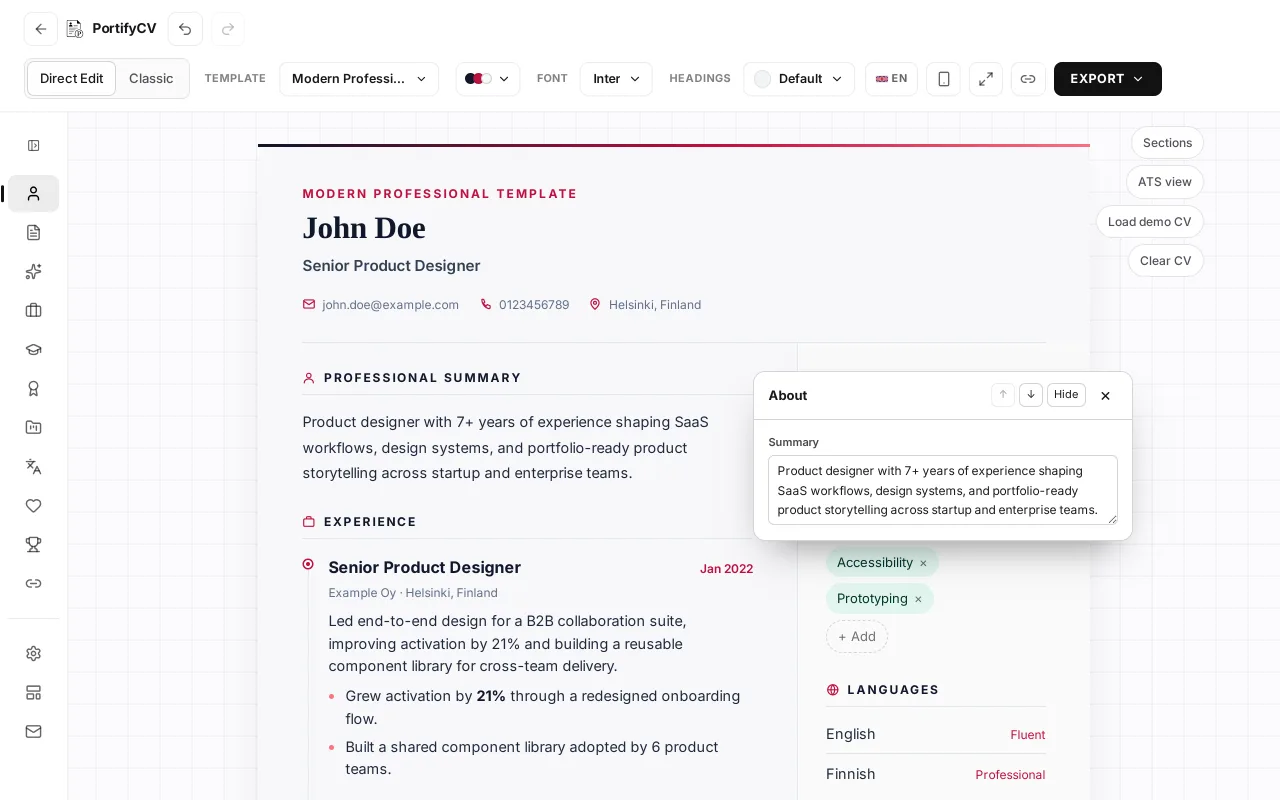
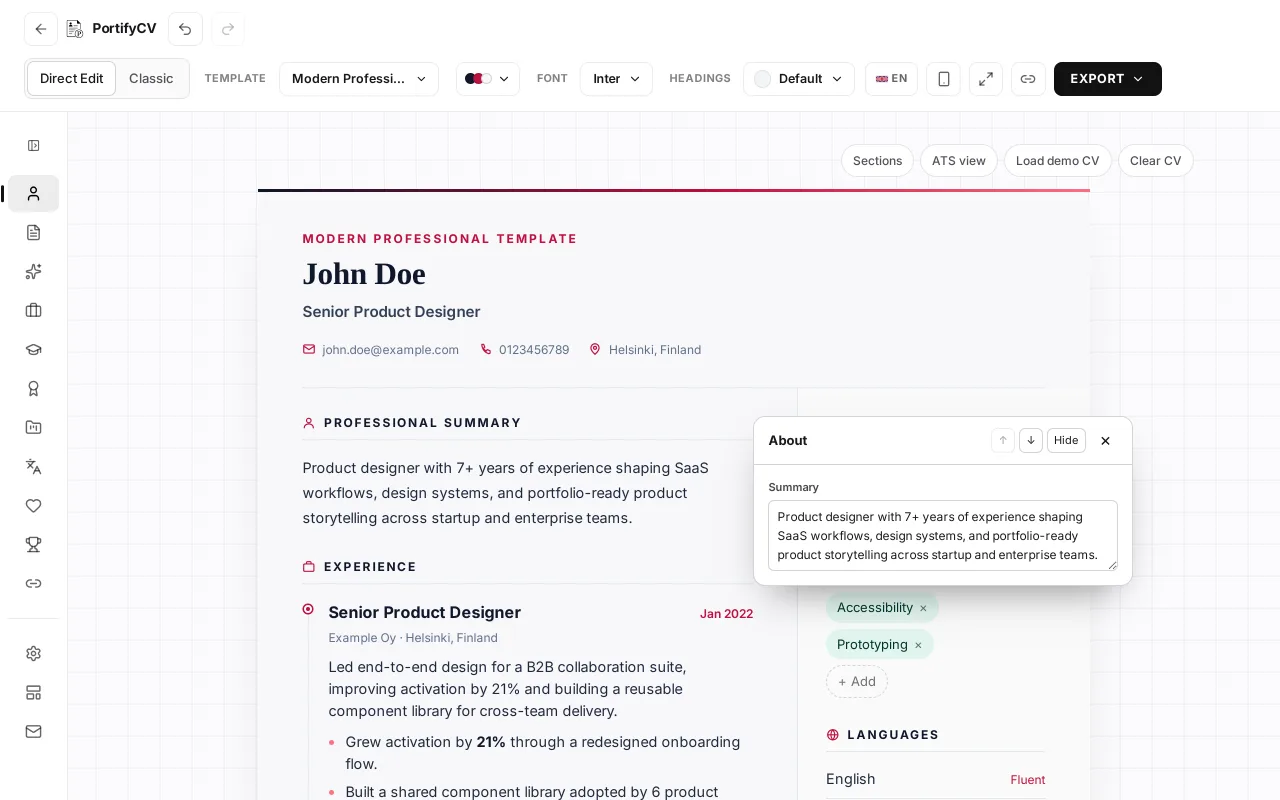
Keep Direct Edit's buttons and pencils off the CV
The preview's Sections / ATS view / Load demo CV / Clear CV buttons move
from a stack over the CV's top-right corner to a row above the CV, and a
section's pencil hangs just outside its top-right corner when that spot
is free instead of covering the section's own content. Regenerates the
builder screenshots that show them.

diff --git a/src/components/SectionEditOverlay.jsx b/src/components/SectionEditOverlay.jsx
@@ -38,6 +38,45 @@ function sectionSelectorFor(sectionKey) {
     : `[data-export-section="${sectionKey}"]`
 }
 
+// Where each section's pencil goes (1.6.53). Inside the section's
+// top-right corner it covered whatever the template puts there (the About
+// heading's "Profile" pill, a date), so it now hangs just outside that
+// corner when the spot is free: inside the preview, and clear of every
+// other section (a main-column section's outside spot can be the
+// sidebar). Otherwise it stays inside the corner. The gap and size match
+// .direct-edit-pencil--outside in direct-edit-popup.css.
+const PENCIL_GAP = 6
+const PENCIL_SIZE = 28
+
+function placePencils(container, sectionKeys) {
+  const parent = container?.parentElement
+
+  if (!parent) {
+    return []
+  }
+
+  const base = container.getBoundingClientRect()
+  const found = sectionKeys
+    .map((sectionKey) => [sectionKey, parent.querySelector(sectionSelectorFor(sectionKey))?.getBoundingClientRect()])
+    .filter(([, rect]) => rect)
+
+  return found.map(([sectionKey, rect]) => {
+    const spot = {
+      left: rect.right + PENCIL_GAP,
+      right: rect.right + PENCIL_GAP + PENCIL_SIZE,
+      top: rect.top,
+      bottom: rect.top + PENCIL_SIZE,
+    }
+    const outside = spot.right <= base.right && !found.some(([otherKey, other]) => (
+      otherKey !== sectionKey
+      && other.left < spot.right && other.right > spot.left
+      && other.top < spot.bottom && other.bottom > spot.top
+    ))
+
+    return { sectionKey, top: rect.top - base.top, right: rect.right - base.left, outside }
+  })
+}
+
 export default function SectionEditOverlay({
   formData,
   dispatchFormData,
@@ -292,12 +331,7 @@ export default function SectionEditOverlay({
   // Re-measured after every content change and whenever the preview
   // resizes (a template's Showcase chunk loading, an edit reflowing the
   // page, a window resize), so the pencils follow their sections.
-  const measurePencils = useCallback(() => (
-    sections
-      .map((sectionKey) => measure(findSectionElement(sectionKey), sectionKey))
-      .filter(Boolean)
-  ), [sections, measure, findSectionElement])
-
+  //
   // Keeps the same array when nothing moved, so a re-measure that changes
   // nothing doesn't re-render every pencil.
   const keepIfUnchanged = (next) => (prev) => (
@@ -306,48 +340,28 @@ export default function SectionEditOverlay({
         pencil.sectionKey === next[index].sectionKey
         && pencil.top === next[index].top
         && pencil.right === next[index].right
+        && pencil.outside === next[index].outside
       ))
       ? prev
       : next
   )
 
-  // Measured inline from the container ref (like the section enumeration
-  // above) rather than through measurePencils, which the hooks lint rule
-  // can't see into.
   useLayoutEffect(() => {
-    const container = containerRef.current
-    const parent = container?.parentElement
-
-    if (!container || !parent) {
-      return
-    }
-
-    const base = container.getBoundingClientRect()
-    const next = []
-
-    for (const sectionKey of sections) {
-      const element = parent.querySelector(sectionSelectorFor(sectionKey))
-
-      if (element) {
-        const rect = element.getBoundingClientRect()
-        next.push({ sectionKey, top: rect.top - base.top, right: rect.right - base.left })
-      }
-    }
-
-    setPencils(keepIfUnchanged(next))
+    setPencils(keepIfUnchanged(placePencils(containerRef.current, sections)))
   }, [sections, formData])
 
   useEffect(() => {
-    const parent = containerRef.current?.parentElement
+    const container = containerRef.current
+    const parent = container?.parentElement
 
     if (!parent) {
       return undefined
     }
 
-    const observer = new ResizeObserver(() => setPencils(keepIfUnchanged(measurePencils())))
+    const observer = new ResizeObserver(() => setPencils(keepIfUnchanged(placePencils(container, sections))))
     observer.observe(parent)
     return () => observer.disconnect()
-  }, [measurePencils])
+  }, [sections])
 
   const openSection = useCallback(
     (sectionKey) => {
@@ -510,7 +524,7 @@ export default function SectionEditOverlay({
             key={pencil.sectionKey}
             type="button"
             tabIndex={-1}
-            className={`direct-edit-pencil${hovered?.sectionKey === pencil.sectionKey ? ' direct-edit-pencil--active' : ''}`}
+            className={`direct-edit-pencil${pencil.outside ? ' direct-edit-pencil--outside' : ''}${hovered?.sectionKey === pencil.sectionKey ? ' direct-edit-pencil--active' : ''}`}
             data-direct-edit-pencil={pencil.sectionKey}
             style={{ top: `${pencil.top}px`, left: `${pencil.right}px` }}
             onPointerDown={(event) => event.stopPropagation()}

diff --git a/e2e/direct-edit.spec.js b/e2e/direct-edit.spec.js
@@ -2005,14 +2005,23 @@ test.describe('Direct Edit pencils and Load demo CV', () => {
       await expect(page.locator(`[data-direct-edit-pencil="${key}"]`)).toBeVisible()
     }
 
-    // Each pencil sits at its own section's top-right corner.
+    // Each pencil sits at its own section's top-right corner: just outside
+    // it where there's room (1.6.53), otherwise just inside it.
     const geometry = await page.evaluate(() => {
-      const pencil = document.querySelector('[data-direct-edit-pencil="experience"]').getBoundingClientRect()
+      const pencil = document.querySelector('[data-direct-edit-pencil="experience"]')
+      const box = pencil.getBoundingClientRect()
       const section = document.querySelector('.direct-edit-preview [data-export-section="experience"]').getBoundingClientRect()
-      return { pencilTop: pencil.top, pencilRight: pencil.right, sectionTop: section.top, sectionRight: section.right }
+      return {
+        outside: pencil.classList.contains('direct-edit-pencil--outside'),
+        pencilTop: box.top, pencilLeft: box.left, pencilRight: box.right, sectionTop: section.top, sectionRight: section.right,
+      }
     })
     expect(Math.abs(geometry.pencilTop - geometry.sectionTop)).toBeLessThan(6)
-    expect(Math.abs(geometry.pencilRight - geometry.sectionRight)).toBeLessThan(6)
+    if (geometry.outside) {
+      expect(Math.abs(geometry.pencilLeft - geometry.sectionRight - 6)).toBeLessThan(6)
+    } else {
+      expect(Math.abs(geometry.pencilRight - geometry.sectionRight)).toBeLessThan(6)
+    }
 
     await page.locator('[data-direct-edit-pencil="experience"]').click()
     const popup = page.locator('.direct-edit-popup')
@@ -2267,5 +2276,45 @@ test.describe('Direct Edit audit fixes', () => {
       return document.elementFromPoint(rect.left + rect.width / 2, rect.top + rect.height / 2) === button
     })
     expect(onTop).toBe(true)
+  })
+})
+
+// 1.6.53: the preview's own buttons sit above the CV and the section
+// pencils beside it, so neither covers the CV at any width.
+test.describe('Direct Edit chrome stays off the CV', () => {
+  const overlaps = (a, b) => a.left < b.right && a.right > b.left && a.top < b.bottom && a.bottom > b.top
+
+  for (const size of [{ width: 1280, height: 800 }, { width: 1024, height: 768 }, { width: 375, height: 812 }]) {
+    test(`at ${size.width}px the buttons cover no section and no pencil`, async ({ page }) => {
+      await page.setViewportSize(size)
+      await page.goto('/cv')
+      await page.getByRole('button', { name: 'Load demo CV' }).first().click()
+      await page.getByRole('tab', { name: 'Direct Edit' }).click()
+      await expect(page.locator('[data-direct-edit-pencil="about"]')).toBeVisible()
+
+      const found = await page.evaluate(() => {
+        const box = (el) => el.getBoundingClientRect()
+        const buttons = [...document.querySelectorAll('.direct-edit-actions button')].map(box)
+        const sections = [...document.querySelectorAll('.direct-edit-preview [data-export-section], .direct-edit-preview [data-export-header]')].map(box)
+        const pencils = [...document.querySelectorAll('.direct-edit-pencil')].map(box)
+        return { buttons, sections, pencils }
+      })
+      const clash = found.buttons.filter((button) => [...found.sections, ...found.pencils].some((other) => overlaps(button, other)))
+      expect(clash).toEqual([])
+    })
+  }
+
+  test("on a wide screen a section's pencil sits outside the section", async ({ page }) => {
+    await page.setViewportSize({ width: 1280, height: 800 })
+    await page.goto('/cv')
+    await page.getByRole('button', { name: 'Load demo CV' }).first().click()
+    await page.getByRole('tab', { name: 'Direct Edit' }).click()
+    const pencil = page.locator('[data-direct-edit-pencil="about"]')
+    await expect(pencil).toHaveClass(/direct-edit-pencil--outside/)
+    const [pencilBox, sectionBox] = await Promise.all([
+      pencil.boundingBox(),
+      page.locator('.direct-edit-preview [data-export-section="about"]').first().boundingBox(),
+    ])
+    expect(pencilBox.x).toBeGreaterThanOrEqual(sectionBox.x + sectionBox.width)
   })
 })

diff --git a/src/styles/direct-edit.css b/src/styles/direct-edit.css
@@ -313,24 +313,18 @@
   position: relative;
 }
 
-/* "Sections" with "Load demo CV" stacked below it, in the preview's
-   top-right corner. Stacked, not side by side, so the pair stays out of
-   the CV's own top-right corner, where the header's always-visible edit
-   pencil sits. */
+/* The preview's own buttons (Sections, ATS view, Load demo CV, Clear CV),
+   in a row above the CV (1.6.53). They used to float stacked over the
+   CV's top-right corner, on top of the header's pencil and, on a phone,
+   over the name. Above the CV they cover nothing at any width. */
 .direct-edit-actions {
-  position: absolute;
-  top: 14px;
-  right: 14px;
+  position: relative;
   display: flex;
-  flex-direction: column;
-  align-items: flex-end;
+  flex-wrap: wrap;
+  justify-content: flex-end;
   gap: 6px;
-  /* z-index:auto (the brief's original omission) is not enough here: the
-     CV header content it overlaps is deep inside a plain, non-positioned
-     ARTICLE/HEADER subtree, yet real-browser paint/hit-testing still put
-     that subtree above this popover without an explicit z-index — verified
-     via elementsFromPoint before/after adding this. An explicit value is
-     required for the trigger to actually be clickable. */
+  margin-bottom: 12px;
+  /* Keeps the open Sections panel above the CV below it. */
   z-index: 5;
 }
 

diff --git a/src/styles/direct-edit-popup.css b/src/styles/direct-edit-popup.css
@@ -43,6 +43,18 @@
   transform: translate(-100%, 0) scale(1.12);
 }
 
+/* Hung just outside the section's top-right corner (1.6.53), where
+   SectionEditOverlay found room, so it covers none of the section. */
+.direct-edit-pencil--outside {
+  transform: translate(6px, 0);
+}
+
+.direct-edit-pencil--outside.direct-edit-pencil--active,
+.direct-edit-pencil--outside:hover,
+.direct-edit-pencil--outside:focus-visible {
+  transform: translate(6px, 0) scale(1.12);
+}
+
 /* One entry's pencil: smaller than the section pencil and hung just
    OUTSIDE the entry's right edge, in the page gutter. Inside the entry it
    would sit on top of the right-aligned dates nearly every template puts

diff --git a/changes.md b/changes.md
@@ -4,6 +4,22 @@ Running log of notable work, newest first. Fuller reasoning and verification
 notes for each item live in `todo.md`; per-commit detail is in git history.
 (This file replaces the old `CHANGELOG.md`, folded in below.)
 
+## Direct Edit's buttons and pencils stay off the CV — 1.6.53, 2026-10-24
+
+The rest of the Direct Edit audit, layout. The preview's own buttons
+(Sections, ATS view, Load demo CV, Clear CV) floated stacked over the
+CV's top-right corner: on top of the header's pencil at 1024px and below,
+and over the name on a phone. They are now a row above the CV
+(`.direct-edit-actions`). Each section's pencil sat inside the section's
+top-right corner, over whatever the template puts there (the About
+heading's "Profile" pill on Minimalist); it now hangs just outside the
+corner when that spot is inside the preview and clear of every other
+section (`placePencils` in `SectionEditOverlay`), and stays inside
+otherwise. The front page's builder screenshot and two walkthrough
+screenshots were regenerated. Tests in `direct-edit.spec.js` ("Direct Edit
+chrome stays off the CV"); the existing pencil-position test accepts
+either spot.
+
 ## Direct Edit audit: six editing bugs — 1.6.52, 2026-10-24
 
 From an audit of the Direct Edit builder, each reproduced in the browser:
